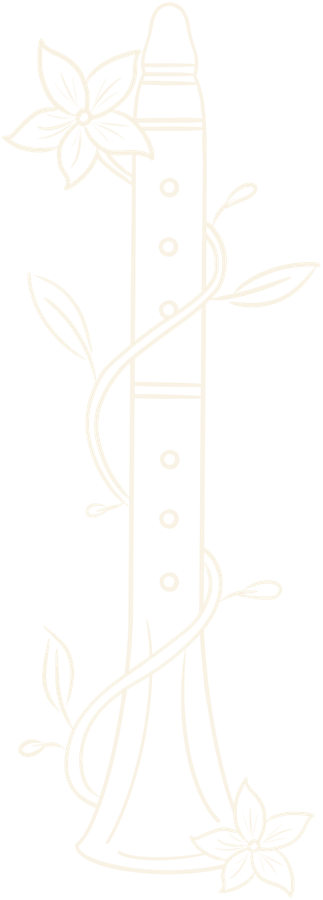
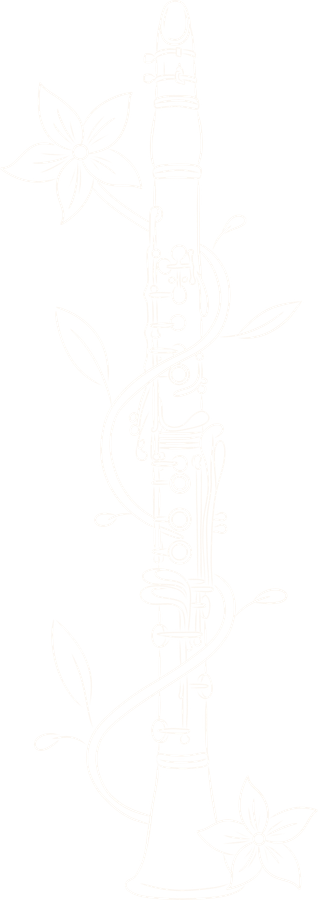
a

diff --git a/src/assets/MANIFEST.md b/src/assets/MANIFEST.md
@@ -14,7 +14,7 @@ bijgesneden op inhoud en verkleind.
 
 | bestand | maat (px) | gebruik |
 | --- | --- | --- |
-| `assets/imke-klarinet-creme.png` | 323 x 900 | omslagmotief in `Hero.astro` en het vlak in `Lessen.astro` (crème op bordeaux) |
+| `assets/imke-klarinet-creme.png` | 318 x 900 | omslagmotief in `Hero.astro` en het vlak in `Lessen.astro` (crème op bordeaux) |
 | `assets/imke-sleutel-bordeaux.png` | 327 x 700 | solsleutel op de notenbalk in `PartituurRegel.astro` (toon-op-toon) |
 
 ### Ornamentset `assets/imke/` (via `scripts/imke-assets.mjs`)
